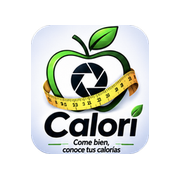
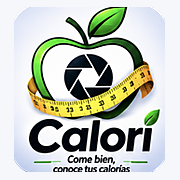
icono grande y actualizaciones automaticas

diff --git a/calori_movil.html b/calori_movil.html
@@ -55,6 +55,7 @@ const ACT={"Sedentario (poco o nada de ejercicio)":1.2,"Ligero (1-3 dias/semana)
 const PROV={"Anthropic (Claude)":"claude-haiku-5-5","Google Gemini":"gemini-3.1-flash-lite","OpenAI":"gpt-4o-mini","Otra compatible con OpenAI":""};
 const STEPS=[["sexo","¿Eres hombre o mujer?"],["edad","¿Cuántos años tienes?"],["peso","¿Cuánto pesas ahora? (kg)"],["altura","¿Cuánto mides? (cm)"],["act","¿Cuánto ejercicio haces?"],["meta","¿Cuál es tu objetivo?"],["obj","¿Qué peso quieres alcanzar? (kg)"],["plazo","¿En cuánto tiempo quieres lograrlo?"]];
[1 lines of base64/hex data omitted]
+const VERSION="__VERSION__";
 const PROMPT=`Eres un nutricionista. Analiza la foto de comida y devuelve SOLO un JSON valido, sin texto extra, con este formato:
 {"platos":[{"nombre":"...","gramos_estimados":0,"calorias":0,"carbohidratos_g":0,"proteinas_g":0,"grasas_g":0}],"comentario":"una frase corta sobre la comida"}
 Si hay varios platos o alimentos, un elemento por cada uno. Estima porciones de forma realista.
@@ -217,9 +218,9 @@ function cabecera(){
   if(e){ot=e.rest===0?"¡Plazo cumplido!":`Te ${e.rest===1?"queda":"quedan"} ${e.rest} ${e.rest===1?"día":"días"}`;if(!e.rest)oc="var(--am)";os=`Llevas ${e.tr} de ${e.tot} días · meta: ${perfil.peso_objetivo} kg el ${e.meta.toLocaleDateString("es-ES")}`}
   else if(perfil){ot="Mantener tu peso";os=perfil.meta==="Mantener"?"Tu objetivo es mantener tu peso actual: no hay plazo.":"Tu peso objetivo no te pide cambiar de peso: no hay plazo."}
   else{ot="Sin objetivo";oc="var(--mu)";os="Responde las preguntas de «Tu plan» para ver cuántos días te quedan."}
-  return`<div class="r sb" style="margin:6px 0 14px"><div class="r"><img src="${LOGO}" width="48" height="52" alt=""><div><div class="t" style="font-size:20px">Calori</div><div class="mu">Come bien, conoce tus calorías</div></div></div>
+  return`<div class="r sb" style="margin:6px 0 14px"><div class="r"><img src="${LOGO}" width="60" height="65" alt=""><div><div class="t" style="font-size:20px">Calori</div><div class="mu">Come bien, conoce tus calorías</div></div></div>
   <div onclick="tab='Perfil';render()">${avatar?`<img class="av" src="${avatar}">`:`<div class="av">${perfil?"👤":"?"}</div>`}</div></div>
-  ${syncErr?`<div class="card" style="padding:12px 14px;border-color:var(--ro)"><div class="mu" style="color:var(--ro);font-size:13px">⚠ ${esc(syncErr)}</div></div>`:""}${tab==="Inicio"?bannerInstalar():""}${tab==="Inicio"?`<div class="card" style="padding:14px 18px"><div class="r" style="align-items:flex-start;gap:24px"><div><div class="mi">Racha</div><span class="t" style="font-size:30px;color:var(--am)">${a}</span><span class="mu"> ${a===1?"día":"días"}</span><div class="mu">${ok?`Hoy ya registrado · mejor: ${m}`:a?`Registra una comida hoy · mejor: ${m}`:"Registra una comida hoy para empezar"}</div></div>
+  ${hayNueva?`<div class="card" style="padding:12px 14px"><div class="r sb"><div><b>Nueva versión disponible</b><div class="mu">Actualiza para tener las últimas mejoras</div></div><button class="p sm" onclick="recargar()">Actualizar</button></div></div>`:""}${syncErr?`<div class="card" style="padding:12px 14px;border-color:var(--ro)"><div class="mu" style="color:var(--ro);font-size:13px">⚠ ${esc(syncErr)}</div></div>`:""}${tab==="Inicio"?bannerInstalar():""}${tab==="Inicio"?`<div class="card" style="padding:14px 18px"><div class="r" style="align-items:flex-start;gap:24px"><div><div class="mi">Racha</div><span class="t" style="font-size:30px;color:var(--am)">${a}</span><span class="mu"> ${a===1?"día":"días"}</span><div class="mu">${ok?`Hoy ya registrado · mejor: ${m}`:a?`Registra una comida hoy · mejor: ${m}`:"Registra una comida hoy para empezar"}</div></div>
   <div style="flex:1"><div class="r sb"><span class="mi">Objetivo</span><b style="color:${oc};font-size:14px">${ot}</b></div><div class="bar" style="margin:8px 0 6px"><i style="width:${(e?e.fr:0)*100}%"></i></div><div class="mu">${os}</div></div></div></div>`:""}
   `;
 }
@@ -293,7 +294,8 @@ function vPerfil(){
   <div class="card"><div class="t" style="font-size:18px;margin-bottom:8px">Tus datos</div>${perfil?`<div class="mu" style="font-size:14px;line-height:1.7">${perfil.sexo} · ${perfil.edad} años · ${perfil.altura} cm · ${perfil.peso} kg<br>${esc(perfil.actividad)}<br>Objetivo: ${perfil.meta}${perfil.meta!=="Mantener"?` (${perfil.peso_objetivo} kg)`:""}</div><div style="white-space:pre-line;margin-top:10px">${esc(d)}</div>`:'<div class="mu">Aún no has rellenado tu plan.</div>'}
   <button class="p" style="width:100%;margin-top:12px" onclick="wizIni();tab='Inicio';render()">${perfil?"Cambiar mi plan paso a paso":"Crear mi plan"}</button></div>
   <div class="card"><div class="t" style="font-size:18px;margin-bottom:8px">Sugerencias</div><textarea id="sug" placeholder="Cuéntanos qué mejorarías…"></textarea>
-  <button style="width:100%;margin-top:8px" onclick="location.href='mailto:${EMAIL}?subject='+encodeURIComponent('[Calori] Sugerencia')+'&body='+encodeURIComponent($('#sug').value)">Enviar sugerencia por correo</button></div>`;
+  <button style="width:100%;margin-top:8px" onclick="location.href='mailto:${EMAIL}?subject='+encodeURIComponent('[Calori] Sugerencia')+'&body='+encodeURIComponent($('#sug').value)">Enviar sugerencia por correo</button></div>
+  <div class="card"><div class="r sb"><div><div class="t" style="font-size:15px">Versión de la app</div><div class="mu">${servido()?esc(VERSION):"modo local"}</div></div><button class="sm" onclick="buscarActualizacion(true)">Buscar actualizaciones</button></div><div class="mu" style="margin-top:6px">${esc(actMsg)}</div></div>`;
 }
 function vCfg(){
   if(srv)return`<div class="card"><div class="t" style="font-size:18px">Configuración</div><div class="mu" style="margin-top:6px;font-size:14px">✓ Todo listo: el análisis de fotos funciona sin que tengas que poner ninguna clave. Tus datos se guardan solo en este móvil.</div></div>`;
@@ -311,7 +313,7 @@ function render(){
   nv.style.display=wz?"none":"flex";
   nv.innerHTML=NAV.map(([t,i,l])=>`<button class="${t===tab?"on":""}" onclick="tab='${t}';msg='';scrollTo(0,0);render()"><span>${i}</span>${l}</button>`).join("");
   const y=scrollY;
-  if(wz){const first=!perfil;$("#a").innerHTML=(first?`<div class="r" style="margin:6px 0 14px"><img src="${LOGO}" width="48" height="52" alt=""><div><div class="t" style="font-size:20px">Calori</div><div class="mu">Come bien, conoce tus calorías</div></div></div><div class="mu" style="margin-bottom:10px">Contesta unas preguntas para calcular tu plan.</div>`:"")+`<div class="card">${vWiz()}</div>`;scrollTo(0,first?0:y);return}
+  if(wz){const first=!perfil;$("#a").innerHTML=(first?`<div class="r" style="margin:6px 0 14px"><img src="${LOGO}" width="60" height="65" alt=""><div><div class="t" style="font-size:20px">Calori</div><div class="mu">Come bien, conoce tus calorías</div></div></div><div class="mu" style="margin-bottom:10px">Contesta unas preguntas para calcular tu plan.</div>`:"")+`<div class="card">${vWiz()}</div>`;scrollTo(0,first?0:y);return}
   $("#a").innerHTML=cabecera()+(tab==="Perfil"?vPerfil()+(srv?"":vCfg()):vDia());scrollTo(0,y);
 }
 /* Cuenta con Supabase Auth: iniciar y cerrar sesión (el plan y el historial viajan con la cuenta) */
@@ -390,14 +392,14 @@ function cuentaCard(){
   return sesion?`<div class="card"><div class="r sb"><div style="min-width:0"><div class="t">${sesion.nombre?"Hola, "+esc(sesion.nombre):"Tu cuenta"}</div><div class="mu" style="overflow:hidden;text-overflow:ellipsis">${esc(sesion.email)}</div></div><button class="sm" onclick="cerrarSesion()">Cerrar sesión</button></div></div>`:"";
 }
 function vCargaErr(){
-  return`<div class="r" style="margin:6px 0 14px"><img src="${LOGO}" width="48" height="52" alt=""><div><div class="t" style="font-size:20px">Calori</div><div class="mu">Come bien, conoce tus calorías</div></div></div>
+  return`<div class="r" style="margin:6px 0 14px"><img src="${LOGO}" width="60" height="65" alt=""><div><div class="t" style="font-size:20px">Calori</div><div class="mu">Come bien, conoce tus calorías</div></div></div>
   <div class="card"><div class="t" style="font-size:18px">No pudimos cargar tu plan</div><div class="mu" style="color:var(--ro);margin:8px 0">${esc(cargaErr)}</div>
   <div class="mu" style="margin-bottom:12px">No te repetimos las preguntas para no pisar el plan que tengas guardado. Pulsa «Reintentar».</div>
   <button class="p" style="width:100%" onclick="cargarCuenta()">Reintentar</button><button style="width:100%;margin-top:8px" onclick="cerrarSesion()">Cerrar sesión</button></div>`;
 }
 function vLogin(){
   const reg=authModo==="Crear cuenta";
-  return`<div class="r" style="margin:6px 0 14px"><img src="${LOGO}" width="48" height="52" alt=""><div><div class="t" style="font-size:20px">Calori</div><div class="mu">Come bien, conoce tus calorías</div></div></div>
+  return`<div class="r" style="margin:6px 0 14px"><img src="${LOGO}" width="60" height="65" alt=""><div><div class="t" style="font-size:20px">Calori</div><div class="mu">Come bien, conoce tus calorías</div></div></div>
   <div class="card"><div class="t" style="font-size:20px">${reg?"Crea tu cuenta":"Bienvenido de nuevo"}</div>
   <div class="mu" style="margin:4px 0 12px">${reg?"Guarda tu plan y tus comidas y entra desde cualquier móvil.":"Entra para ver tu plan y tus comidas."}</div>
   <div class="seg">${["Iniciar sesión","Crear cuenta"].map(m=>`<button class="${m===authModo?"on":""}" onclick="authModo='${m}';authMsg='';render()">${m}</button>`).join("")}</div>
@@ -422,11 +424,32 @@ function bannerInstalar(){
   if(/iphone|ipad|ipod/i.test(navigator.userAgent))return`<div class="card" style="padding:12px 14px"><div class="r sb"><div class="mu" style="font-size:13px">Para instalarla: pulsa <b>Compartir</b> ⎋ y luego <b>Añadir a pantalla de inicio</b>.</div>${x}</div></div>`;
   return"";
 }
+/* Actualizaciones: cada vez que publicas cambios, las apps ya instaladas se ponen al día solas */
+let hayNueva=false,actMsg="";
+const servido=()=>/^[0-9a-f]{10}$/.test(VERSION);
+function recargar(){
+  try{subir()}catch{}
+  (async()=>{try{for(const k of await caches.keys())await caches.delete(k)}catch{}
+    try{const r=await navigator.serviceWorker.getRegistration();if(r)await r.update()}catch{}
+    location.reload()})();
+}
+async function buscarActualizacion(manual){
+  if(!servido())return;
+  try{
+    const r=await fetch("/api/version",{cache:"no-store"});if(!r.ok)throw 0;const{v}=await r.json();
+    if(v===VERSION){hayNueva=false;if(manual){actMsg="Ya tienes la última versión.";render()}return}
+    const libre=!wz&&!busy&&!authBusy&&!Object.keys(pend).length&&!(srv&&!sesion&&(authEm||authNm));
+    let ya=false;try{ya=sessionStorage.getItem("recarga")===v}catch{}
+    if(manual||(libre&&!ya)){try{sessionStorage.setItem("recarga",v)}catch{}return recargar()}
+    hayNueva=true;render();
+  }catch{if(manual){actMsg="No se pudo comprobar. Revisa tu conexión.";render()}}
+}
+setInterval(()=>{if(!document.hidden)buscarActualizacion()},300000);
 /* Nuevo día: pantalla en blanco para hacer fotos nuevas; se borran las fotos de días anteriores (se conservan las calorías y la racha) */
 let diaApp=hoy();
 function limpiarFotos(){let c=false;const h=hoy();for(const f in dias)if(f<h)for(const s of C)if(dias[f]?.[s]?.foto){delete dias[f][s].foto;c=true}if(c)W("dias",dias)}
 function chequeaDia(){if(hoy()!==diaApp){diaApp=hoy();fecha=diaApp;pend={};slot=C[0];msg="¡Nuevo día! Ya puedes hacer tus fotos.";limpiarFotos();render()}}
-document.addEventListener("visibilitychange",()=>{if(document.hidden)subir();else chequeaDia()});
+document.addEventListener("visibilitychange",()=>{if(document.hidden)subir();else{chequeaDia();buscarActualizacion()}});
 setInterval(chequeaDia,30000);
 limpiarFotos();
 abrirPerfil=enApp()&&!L("appAbierta",false);if(enApp())W("appAbierta",true);
@@ -439,5 +462,5 @@ async function arrancar(){
   if(abrirPerfil){tab="Perfil";abrirPerfil=false}
   render();
 }
-fetch("/api/config").then(async r=>{if(r.ok){cfgS=await r.json();srv=true}}).catch(()=>{}).finally(arrancar);
+fetch("/api/config").then(async r=>{if(r.ok){cfgS=await r.json();srv=true}}).catch(()=>{}).finally(async()=>{await arrancar();buscarActualizacion()});
 </script></body></html>

diff --git a/sw.js b/sw.js
@@ -1,5 +1,5 @@
 // Calori: service worker minimo. Red primero (siempre la version nueva); sin red, usa la copia guardada. Nunca toca /api/.
-const V="calori-v1";
+const V="calori-__VERSION__";
 self.addEventListener("install",e=>{e.waitUntil(caches.open(V).then(c=>c.addAll(["/","/manifest.webmanifest","/icon-192.png"])).catch(()=>{}));self.skipWaiting()});
 self.addEventListener("activate",e=>{e.waitUntil(caches.keys().then(ks=>Promise.all(ks.filter(k=>k!==V).map(k=>caches.delete(k)))).then(()=>self.clients.claim()))});
 self.addEventListener("fetch",e=>{

diff --git a/servidor_movil.py b/servidor_movil.py
@@ -7,6 +7,7 @@ Cada analisis exige una sesion valida de Supabase y se limita por usuario y dia.
 
 Local:  python servidor_movil.py      En un hosting: ver LEEME_HOSTING.txt
 """
+import hashlib
 import json
 import os
 import socket
@@ -43,6 +44,22 @@ ESTATICOS = {
     "/icon-512.png": "image/png",
     "/apple-touch-icon.png": "image/png",
 }
+
+
+_ver = {"clave": None, "v": ""}
+
+
+def version():
+    """Huella de los archivos de la app: cambia sola cada vez que publicas cambios (las apps instaladas la usan para actualizarse)."""
+    archivos = [HTML, AQUI / "sw.js", AQUI / "manifest.webmanifest", AQUI / "icon-192.png", AQUI / "icon-512.png"]
+    clave = tuple((f.stat().st_mtime_ns, f.stat().st_size) for f in archivos if f.exists())
+    if clave != _ver["clave"]:
+        h = hashlib.sha1()
+        for f in archivos:
+            if f.exists():
+                h.update(f.read_bytes())
+        _ver.update(clave=clave, v=h.hexdigest()[:10])
+    return _ver["v"]
 
 
 def permitido(ip):
@@ -155,6 +172,8 @@ class H(BaseHTTPRequestHandler):
 
     def _archivo(self, ruta, tipo):
         d = ruta.read_bytes()
+        if ruta.name in ("calori_movil.html", "sw.js"):
+            d = d.replace(b"__VERSION__", version().encode())
         self.send_response(200)
         self.send_header("Content-Type", tipo)
         self.send_header("Cache-Control", "no-cache")
@@ -173,6 +192,14 @@ class H(BaseHTTPRequestHandler):
             if not SUPABASE_URL or not SUPABASE_KEY:
                 return self._json(503, {"error": "El servidor no tiene configurado Supabase."})
             self._json(200, {"url": SUPABASE_URL, "key": SUPABASE_KEY})
+        elif ruta == "/api/version":
+            d = json.dumps({"v": version()}).encode()
+            self.send_response(200)
+            self.send_header("Content-Type", "application/json")
+            self.send_header("Cache-Control", "no-store")
+            self.send_header("Content-Length", str(len(d)))
+            self.end_headers()
+            self.wfile.write(d)
         elif ruta == "/api/estado":
             self._json(200, {"ok": True, "apis": len(configs()), "supabase": bool(SUPABASE_URL and SUPABASE_KEY)})
         else:
